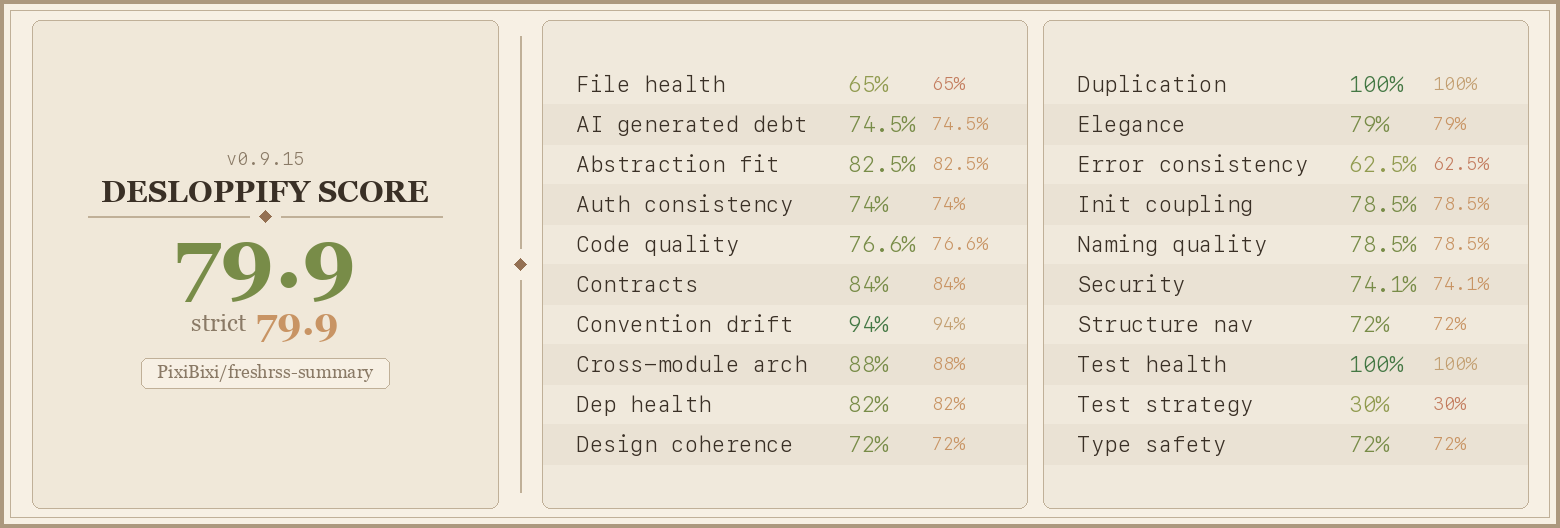
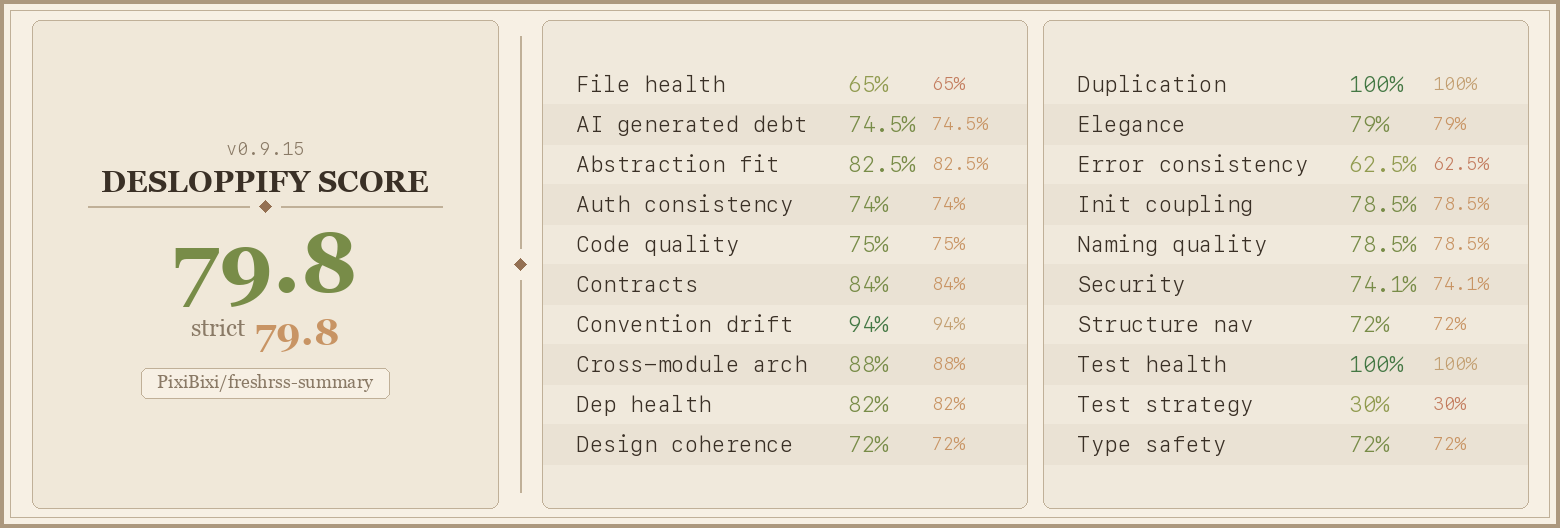
docs(readme): update for feed weights and mark-as-read UX
- Add feed_weight to scoring formula
- Document per-feed multipliers (Feeds tab in scoring modal)
- Update mark-as-read description (articles disappear immediately)
- Add "Mark all read" button entry (always visible)
- Fix test count: 156 (was 114)

diff --git a/README.md b/README.md
@@ -226,10 +226,10 @@ python cli.py import articles.json
 ## Scoring
 
 ```
-score = Σ (title_occurrences × title_weight + body_occurrences) × topic_weight
+score = Σ (title_occurrences × title_weight + body_occurrences) × topic_weight × feed_weight
 ```
 
-The highest-scoring article best matches your configured topics. Score breakdown per topic is shown as a tooltip on each article's score badge.
+The highest-scoring article best matches your configured topics. Score breakdown per topic — plus feed multiplier if non-default — is shown as a tooltip on each article's score badge.
 
 ### Topics (default config)
 
@@ -252,13 +252,17 @@ The highest-scoring article best matches your configured topics. Score breakdown
 
 Weights and keywords are editable live from the UI (⚙ **Topics** button) — persisted in the database, no restart required. The `config.yaml` topics section is only used to seed the database on first startup. Use `python cli.py tune --apply` to suggest weight adjustments based on your starred articles.
 
+### Per-feed multipliers
+
+The **Feeds** tab in the scoring modal (⚙ Topics → Feeds) lets you set a score multiplier per feed (0.1–5.0). Feeds with non-default multipliers are shown first, color-coded by intensity (boost in accent color, malus in red). Default is `1.0` (no effect).
+
 ## UI Features
 
 ### Reading
 
 - **SSE streaming**: articles appear progressively as they are fetched, no full-page wait
 - **Auto mark-as-read on scroll**: articles scrolled past are silently marked as read in FreshRSS after a 3s debounce
-- **Mark as read**: single article, all articles in a day group, or all visible
+- **Mark as read**: single article (✓ Lu), all articles in a day group (Mark Day), or all visible (✓ Tout lire) — articles disappear from the page immediately on mark
 - **Open all**: open every article in a day group as tabs (with confirmation above 10)
 - **Show read**: toggle to reveal articles marked as read (kept 7 days, purged on refresh) — requires login
 - **Bookmarks**: starred locally, survive refreshes
@@ -269,7 +273,8 @@ Weights and keywords are editable live from the UI (⚙ **Topics** button) — p
 - **Sort**: by score (default), date, or source
 - **Min score**: adjustable live — hides low-relevance articles
 - **Period**: 7d / 14d / 30d / all
-- **Full-text search**: client-side filter on title and feed name, with "mark all results as read" button
+- **Full-text search**: client-side filter on title and feed name
+- **✓ Mark all read**: always-visible button — marks all currently displayed articles as read and removes them from the page; in search mode, scoped to search results
 
 ### Interface
 
@@ -279,7 +284,7 @@ Weights and keywords are editable live from the UI (⚙ **Topics** button) — p
 - **Auto-refresh**: configurable background scheduler — open the UI in the morning and articles are already there (see `REFRESH_INTERVAL_MINUTES`)
 - **Last refresh indicator**: shows time since last fetch; ⚠ warning if stale (>3h)
 - **Rescore**: reapply current weights without re-fetching
-- **Scoring config** (⚙ Topics): edit topic names, weights, and keywords live — saved to DB, triggers automatic rescore
+- **Scoring config** (⚙ Topics): edit topic names, weights, and keywords live; **Feeds** tab for per-feed score multipliers — saved to DB, triggers automatic rescore
 - **Password change** (🔑 Password): change the current user's password directly from the UI — no restart required
 - **i18n**: French, English, German, Spanish, Italian, Portuguese — auto-detected from browser, override persisted in localStorage
 
@@ -326,12 +331,12 @@ uv run pytest
 uv run pytest -v
 ```
 
-114 tests across 5 modules — no network or FreshRSS access required:
+156 tests across 5 modules — no network or FreshRSS access required:
 
 | Module | Coverage |
 |--------|---------|
-| `test_scorer.py` | `_strip_html`, `TopicConfig`, `build_topics`, `score_article`, `score_articles`, `analyze_favorites`, `ScoredArticle.to_dict` |
-| `test_db.py` | Save/load roundtrip, soft-delete, bookmarks, users, pending sync outbox, `load_for_rescore`, `get_scoring_config`, `set_scoring_config` |
+| `test_scorer.py` | `_strip_html`, `TopicConfig`, `build_topics`, `score_article`, `score_articles`, `analyze_favorites`, `ScoredArticle.to_dict`, feed weight multiplier |
+| `test_db.py` | Save/load roundtrip, soft-delete, bookmarks, users, pending sync outbox, `load_for_rescore`, `get_scoring_config`, `set_scoring_config`, feed weights |
 | `test_freshrss_client.py` | `_parse_item`, login, `_fetch_batch`, `fetch_unread`, `mark_as_read`, context manager |
 | `test_app.py` | Password hashing, `load_config`, `Cache.populate` |
 | `test_cli.py` | `load_config`, ANSI helpers |